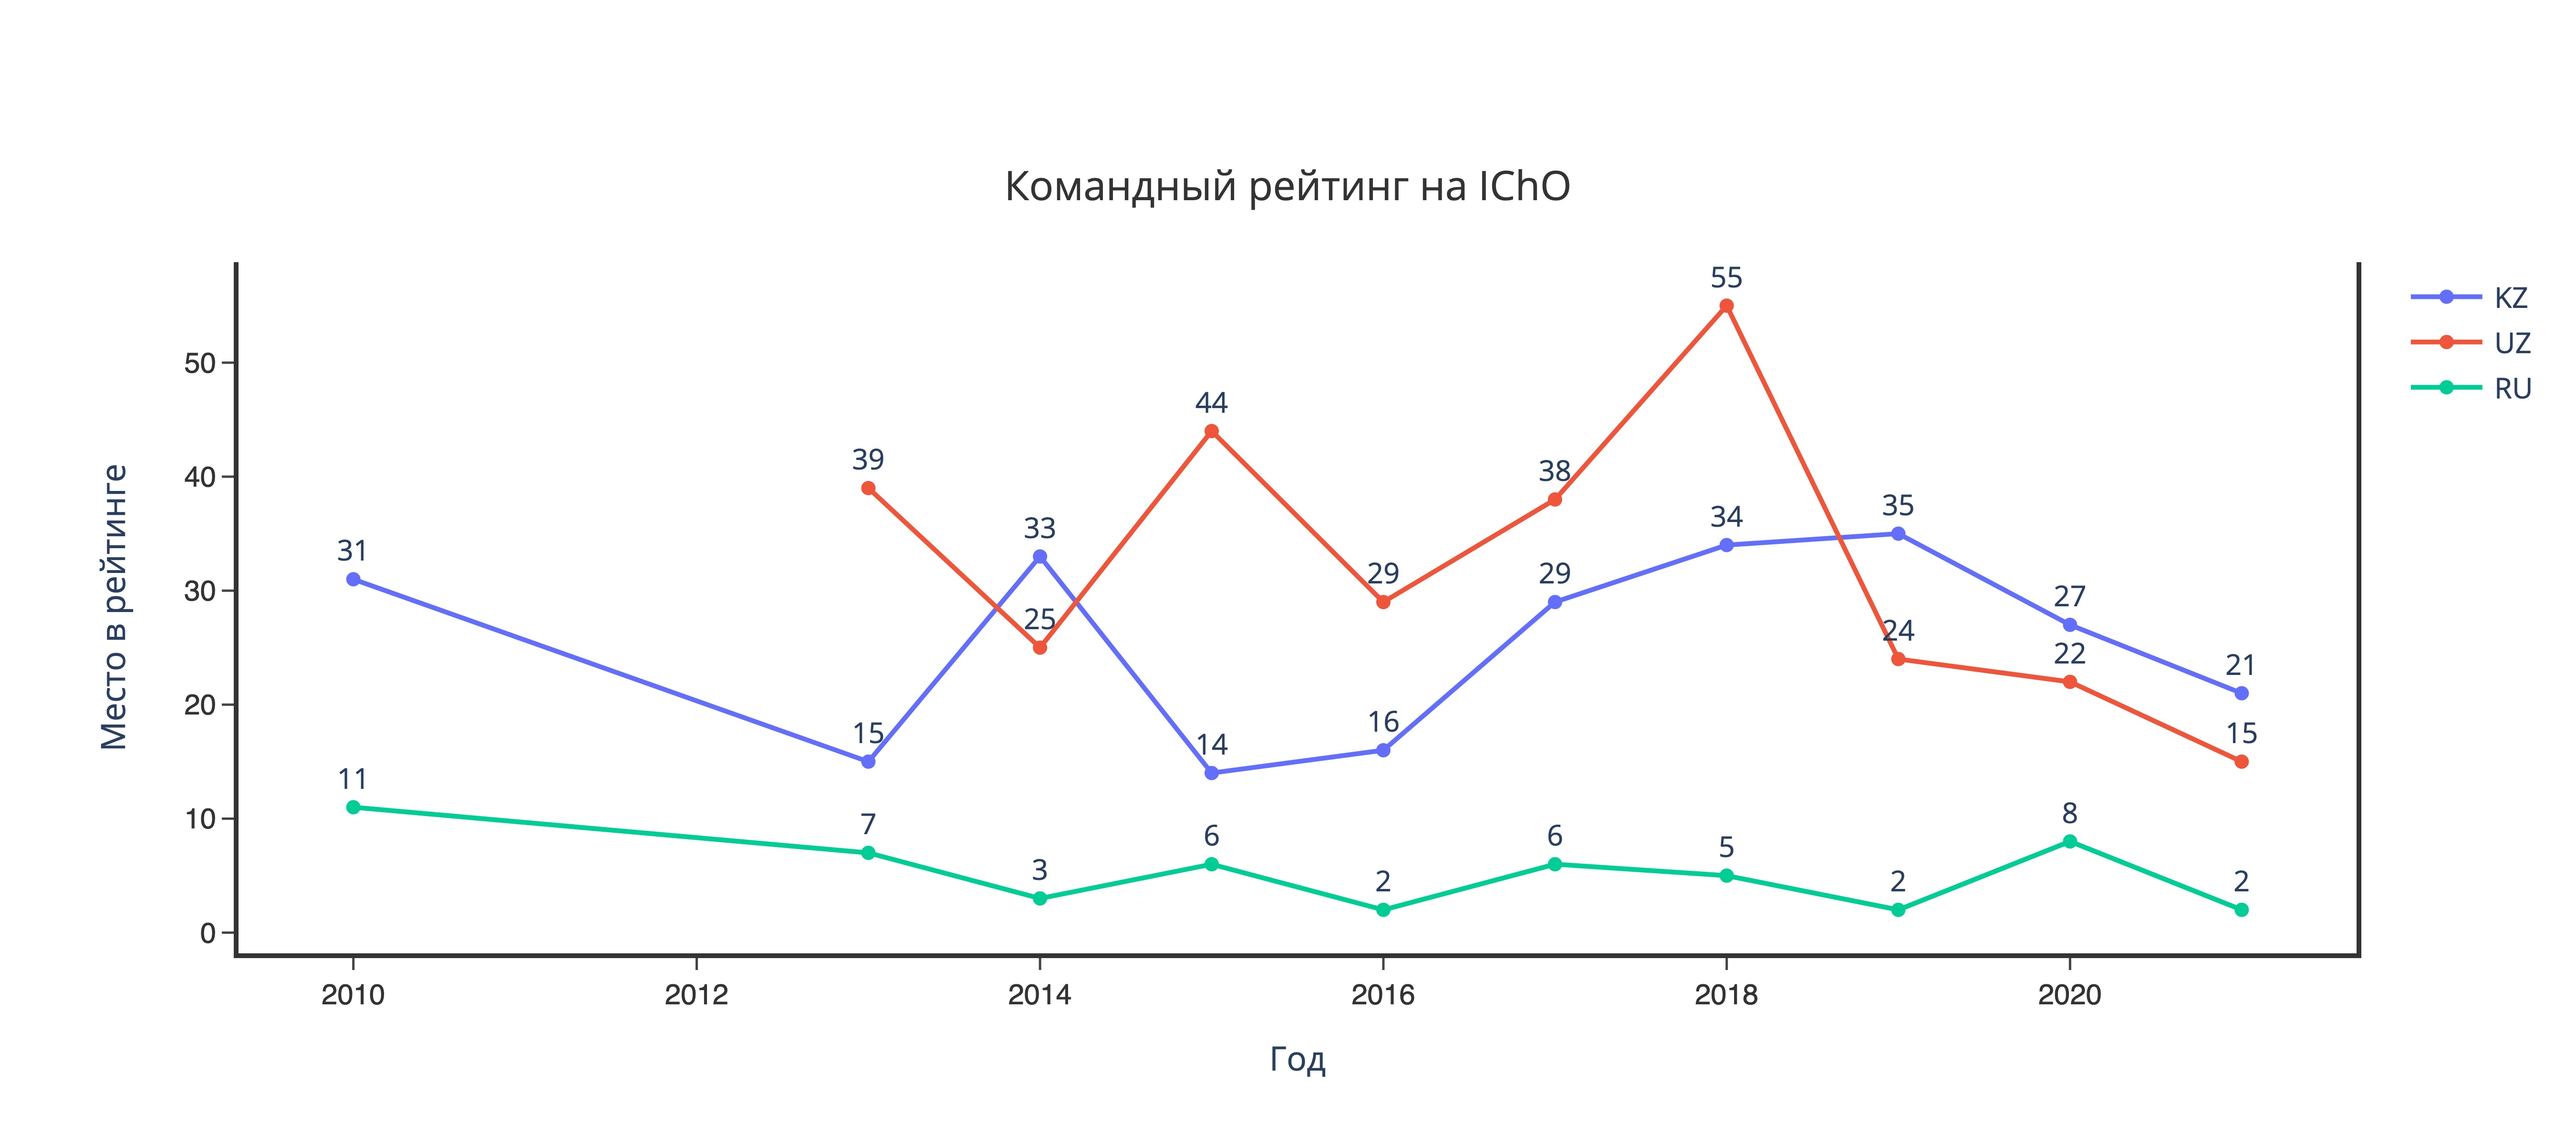
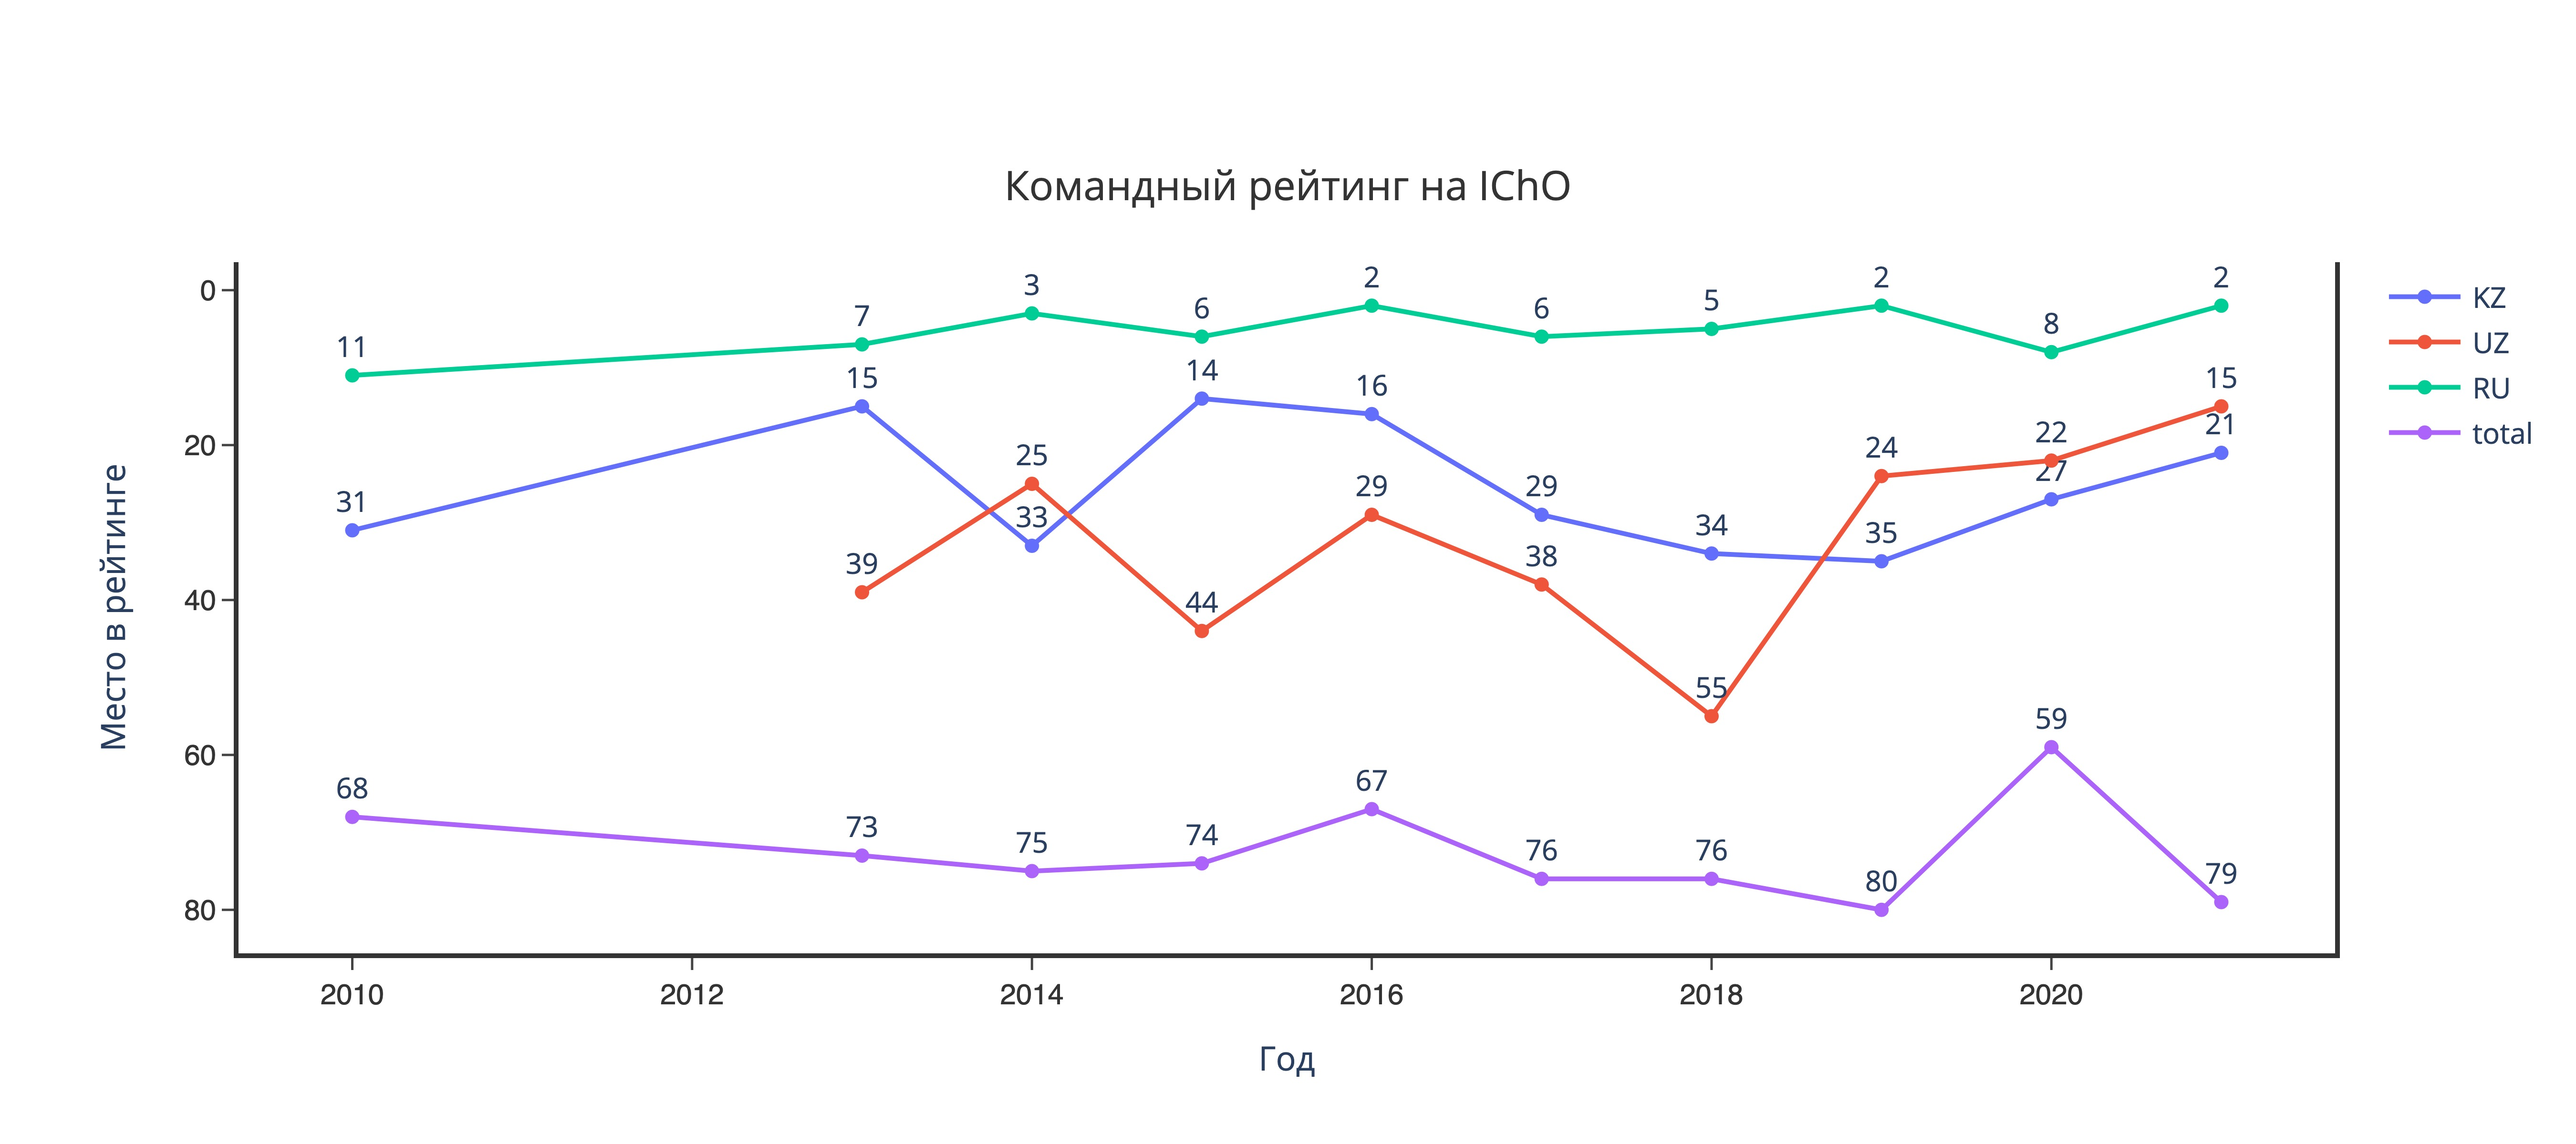
feat: inverted y axis

diff --git a/main.py b/main.py
@@ -23,6 +23,7 @@ class SubjectRating:
                 ),
             ),
             yaxis=dict(
+                autorange='reversed',
                 title=yAxis,
                 showgrid=False,
                 zeroline=False,
@@ -92,4 +93,4 @@ class SubjectRating:
 
 
 chemObj = SubjectRating(parsers.chemistry)
-chemObj.plot(('KZ', 'UZ', 'RU'))
+chemObj.plot(('KZ', 'UZ', 'RU', 'total'))
